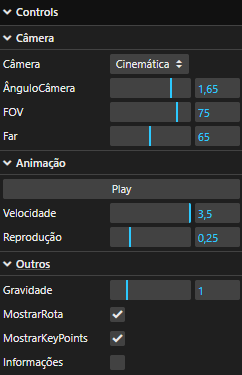
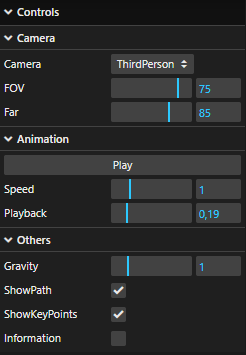
Translated README.md and updated GUI screenshot

diff --git a/README.md b/README.md
@@ -1,110 +1,103 @@
-# Relatório Trabalho 1 - MATA65 (Computação Gráfica)
-## Introdução
-Neste repositório se localiza o produto final do trabalho que marca a conclusão da unidade 1 da disciplina MATA65 - Computação Gráfica na UFBA no semestre 2024.2, ministrada pelo professor [Antônio Apolinário](https://computacao.ufba.br/pt-br/antonio-lopes-apolinario-junior), responsável pelas especificações do trabalho. **Para executar a aplicação, é importante ter a pasta [Assets](https://github.com/LucasTBorges/Assets) na raíz do web server que está o executando.** A navegação da aplicação se dá a partir do index.html, localizado na pasta CodigoBase.
-Nós fomos orientados a desenvolver uma aplicação utilizando a biblioteca [Three.js](https://threejs.org/) que nos permitisse visualizar um cenário sob dois pontos de vista simultaneamente: uma câmera estática e uma câmera que acompanha um agente representado por um modelo 3D percorrendo um circuito em loop pela cena.
-Dentre os requisitos impostos, se encontravam:
- - Na visualização que acompanha o avatar pelo cenário, deve ser possível alternar entre as perspectivas de Primeira Pessoa, Terceira Pessoa e "Drone Normal".
- - O movimento da câmera deve ser suave e realista.
- - Deve ser possível pausar e reproduzir a execução da animação.
-## Modelos 3D
-<img src="./imgs/bookModel.png" alt="Modelo 3D do cenário" width="500"/>
-<img src="./imgs/passaro.png" alt="Modelo 3D do avatar" width="500"/>
+# Project Report 1 - MATA65 (Computer Graphics)
+## Introduction
+This repository contains the final project for Unit 1 of the MATA65 - Computer Graphics course at UFBA (2024.2 semester), taught by Professor [Antônio Apolinário](https://computacao.ufba.br/pt-br/antonio-lopes-apolinario-junior), who provided the project specifications.
 
-As especificações do trabalho, localizadas neste mesmo repositório, dão liberdade criativa para a escolha dos modelos do avatar e do cenário. Dessa forma, escolhi, para o cenário, o modelo de um [feudo sobre um livro de fantasia medieval](https://sketchfab.com/3d-models/medieval-fantasy-book-06d5a80a04fc4c5ab552759e9a97d91a), disponível para download no SketchFab sob a publicação do usuário [Pixel](https://sketchfab.com/stefan.lengyel1). Para o avatar acompanhado pela câmera, optei pelo modelo de um [pássaro](https://sketchfab.com/3d-models/low-poly-bird-942ffdab96bb48a7bb1612b461386310), também disponível para download no SketchFab, sob a publicação do usuário [AlexFerrart3D](https://sketchfab.com/alexferrart3D).
+The goal was to develop an application using the [Three.js](https://threejs.org/) library to visualize a scene from two simultaneous perspectives: a static camera and a camera that follows an agent (a 3D model) traveling along a looped path.
 
-## Movimentação da Câmera
+Key requirements included:
+ - The ability to switch between First Person, Third Person, and "Normal Drone" perspectives for the avatar view.
+ - Smooth and realistic camera movement.
+ - Controls to pause and play the animation.
 
-**Translação:** A fim de traçar uma trajetória flúida para a câmera, decidi deslocá-la ao longo de uma [spline de Catmull-Rom](https://www.cs.cmu.edu/~fp/courses/graphics/asst5/catmullRom.pdf). Esta curva paramétrica, gerada a partir de uma lista de pontos no espaço, é uma spline interpolante, o que significa que os pontos definidos por mim farão parte da curva gerada, me dando mais controle sobre o circuito percorrido pela câmera. Por fim, já [existe uma implementação desta curva no Three.js](https://threejs.org/docs/#api/en/extras/curves/CatmullRomCurve3), o que foi mais um motivo para escolher essa abordagem no meu projeto.
+## 3D Models
+<img src="./imgs/bookModel.png" alt="3D Environment Model" width="500"/>
+<img src="./imgs/passaro.png" alt="3D Avatar Model" width="500"/>
 
-**Rotação:** Outra vantagem da utilização da spline de Catmull-Rom é o fato de que ela possui continuidade de classe $C^1$. Utilizar a tangente da curva para determinar a direção para a qual a câmera deve apontar em qualquer ponto me pareceu a escolha natural nessa situação.
+The project specifications allowed creative freedom for choosing the models. For the environment, I chose a [Medieval Fantasy Book](https://sketchfab.com/3d-models/medieval-fantasy-book-06d5a80a04fc4c5ab552759e9a97d91a) by user [Pixel](https://sketchfab.com/stefan.lengyel1) on Sketchfab. For the avatar, I opted for a [Low Poly Bird](https://sketchfab.com/3d-models/low-poly-bird-942ffdab96bb48a7bb1612b461386310) by user [AlexFerrart3D](https://sketchfab.com/alexferrart3D).
 
-## Visualizações Simultâneas
+## Camera Movement
 
-<img src="./imgs/moinho.png" alt="Frame capturado durante a execução da animação" width="500"/>
+**Translation:** To create a fluid trajectory, the camera moves along a [Catmull-Rom spline](https://www.cs.cmu.edu/~fp/courses/graphics/asst5/catmullRom.pdf). This parametric curve is interpolating, meaning the defined control points are part of the generated path, allowing for precise circuit design. I utilized the [Three.js implementation](https://threejs.org/docs/#api/en/extras/curves/CatmullRomCurve3) of this curve.
 
-Cada frame da animação possui duas visualizações simultâneas da cena. A primeira, localizada na esquerda, é a visualização de uma [câmera que faz uso de projeção perspectiva](https://threejs.org/docs/#api/en/cameras/PerspectiveCamera) e acompanha o avatar percorrendo o cenário. A segunda, localizada na direita, é a visualização de uma [câmera ortográfica](https://threejs.org/docs/#api/en/cameras/OrthographicCamera) (faz uso de projeção paralela) que não sofre nenhuma tranformação durante a execução da aplicação.
-Na visualização da câmera ortográfica é possível visualizar alguns elementos não presentes na primeira visualização:
- - Um [Camera Helper](https://threejs.org/docs/#api/en/helpers/CameraHelper) referente à primeira visualização: segmentos de linha que auxiliam a visualizar o frustrum da câmera ativa.
- - Uma curva vermelha que descreve a trajetória da câmera na animação, cuja visualização pode ser desligada através da GUI.
- - Esferas ciano representando os pontos a partir dos quais a curva foi gerada. Como todas as esferas compartilham da mesma geometria e material, foi possível fazer uso da [InstancedMesh](https://threejs.org/docs/#api/en/objects/InstancedMesh) do Three.js ao invés de criar as malhas das esferas uma a uma e passar, de forma redundante, as mesmas informações de geometria e material toda vez. Essa escolha ainda otimiza a performance da aplicação pois diminui o número de draw calls realizadas. A visualização das esferas pode ser desligada através da GUI.
+**Rotation:** A benefit of the Catmull-Rom spline is its $C^1$ continuity. I used the curve's tangent to determine the camera's direction at any given point, ensuring natural orientation.
 
-## Diferentes Câmeras
+## Simultaneous Views
 
- A especificação do trabalho indica que deve ser possível alternar entre as câmeras em Primeira Pessoa, Terceira Pessoa e "Drone Normal" através da GUI. Para além das três câmeras obrigatórias, minha aplicação também inclui a opção "Cinematográfica".
+<img src="./imgs/moinho.png" alt="Frame captured during animation" width="500"/>
+
+Each frame features two simultaneous views. On the left is a [Perspective Camera](https://threejs.org/docs/#api/en/cameras/PerspectiveCamera) that follows the avatar. On the right is an [Orthographic Camera](https://threejs.org/docs/#api/en/cameras/OrthographicCamera) (parallel projection) that remains static.
+
+The orthographic view displays elements not visible in the first view:
+ - A [Camera Helper](https://threejs.org/docs/#api/en/helpers/CameraHelper) for the active perspective camera.
+ - A red curve showing the camera's trajectory (can be toggled via GUI).
+ - Cyan spheres representing the control points. Using [InstancedMesh](https://threejs.org/docs/#api/en/objects/InstancedMesh), I optimized performance by reducing draw calls, as all spheres share the same geometry and material.
+
+## Camera Modes
+
+The application allows switching between First Person, Third Person, and Normal Drone views. I also included a "Cinematic" option.
 
 ---
  
- ### Primeira pessoa:
- 
- <img src="./imgs/firstPerson.png" alt="Visão em primeira pessoa" width="350"/>
- 
-  Câmera posicionada de forma a simular a experiência do pássaro, com a visão parcialmente obstruída pelo bico.
+ ### First Person:
+ <img src="./imgs/firstPerson.png" alt="First Person View" width="350"/>
+ Positioned to simulate the bird's experience, with the view partially obstructed by its beak.
 
 ---
   
- ### Terceira Pessoa:
- 
-<img src="./imgs/thirdPerson.png" alt="Visão em terceira pessoa" width="350"/>
-
-Câmera posicionada atrás e um pouco acima do pássaro.
+ ### Third Person:
+ <img src="./imgs/thirdPerson.png" alt="Third Person View" width="350"/>
+ Positioned behind and slightly above the bird.
 
 ---
 
-### Drone Normal:
-
-<img src="./imgs/droneNormal.png" alt="Visão de drone normal" width="350"/>
-
-Similar à visão em primeira pessoa, mas a visão não é obstruída por nenhuma parte do modelo do pássaro.
+### Normal Drone:
+ <img src="./imgs/droneNormal.png" alt="Normal Drone View" width="350"/>
+ Similar to first person, but with an unobstructed view.
 
 ---
 
-### Cinematográfica:
-
-<img src="./imgs/cinematica.png" alt="Visão cinematográfica" width="350"/>
-
-Posicionada a uma distância fixa do avatar, esta visão se diferencia das outras pois compartilha apenas as transformações de translação com o pássaro. Por não sofrer as mesmas transformações de rotação das outras câmeras, em alguns momentos veremos o pássaro de frente, em outros de lado e em outros de costas, a depender da direção para a qual o modelo está voltado. Entretanto, através da GUI, é possível controlar manualmente a rotação da câmera cinematográfica ao redor do pássaro. A intenção da inclusão dessa visão é facilitar a visualização das transformações de rotação aplicadas sobre o avatar durante o trajeto.
+### Cinematic:
+ <img src="./imgs/cinematica.png" alt="Cinematic View" width="350"/>
+ This view stays at a fixed distance from the avatar but only shares translation transformations. This allows the viewer to see the bird from different angles as it rotates along the path. The rotation of this camera around the bird can be controlled manually via the GUI.
 
 ---
 
-Para posicionar as câmeras com referência ao pássaro, utilizei [grupos](https://threejs.org/docs/?q=group#api/en/objects/Group) do Three.js para realizar o posicionamento no sistema de coordenadas local ao invés de no espaço do mundo. 
-Criei um grupo para aplicar as tranformações de translação da animação e dentro dele criei um grupo para aplicar as transformações de rotação. No grupo de rotação incluí o modelo do pássaro e as câmeras de Primeira Pessoa, Terceira Pessoa e Drone Normal. No grupo pai, o grupo de translação, incluí a câmera cinematográfica. O resultado é que todas as câmeras e o modelo sofrem as transformações de translação acompanhando a spline ao longo da animação, mas as transformações de rotação (acompanhando a tangente da spline) não atingem a câmera cinematográfica, como pretendido.
+To position these cameras relative to the bird, I used Three.js [Groups](https://threejs.org/docs/?q=group#api/en/objects/Group). A "Translation Group" handles the spline movement, and a nested "Rotation Group" handles the orientation. The bird and the first three cameras are inside the rotation group, while the Cinematic camera is in the parent translation group, isolating it from the bird's automatic rotations.
 
-## Circuito
+## The Circuit
 
-A rota que tracei para o passáro foi formada pela interpolação de 12 pontos no cenário que determinei para que ela seguisse o seguinte percurso:
+The flight path is interpolated from 12 points, following this route:
+ 1. Over the waterfall.
+ 2. Under the bridge near the fisherman.
+ 3. Over the deer.
+ 4. Around the windmill.
+ 5. Between the castle towers, followed by a "dive" through the building's doors.
+ 6. Right turn at the gray-roofed house.
+ 7. Over the sheep.
+ 8. Return to the starting point.
 
- 1. O pássaro começa passando por cima da cachoeira;
- 2. Em seguida, passa por debaixo da ponte com o pescador;
- 3. Sobrevoa os cervos;
- 4. Contorna o moinho de vento;
- 5. Passa por entre as torres mais altas do castelo e dá um "mergulho", saindo pelas portas da construção;
- 6. Vira a direita na casa com telhado cinza;
- 7. Sobrevoa as ovelhas;
- 8. Volta ao ponto inicial.
+## Free Camera Mode
+To assist in path creation, I added a "Free Exploration" mode using [Fly Controls](https://threejs.org/docs/#examples/en/controls/FlyControls). This allows free navigation to find coordinates for the spline points, which can be read from the "Information" debug panel.
 
-## Modo Câmera Livre
+## GUI (Graphical Interface)
 
-Para facilitar a montagem da curva, adicionei um modo de câmera livre à aplicação, acessível pela aba "Câmera Livre". Nela, faço uso dos [Fly Controls](https://threejs.org/docs/#examples/en/controls/FlyControls) do Three.js. Nesse modo, é possível navegar livremente pelo cenário. Assim, para montar o caminho, bastou navegar pela câmera livre até o local que eu achava apropriado para a adição de um ponto à minha lista de pontos e registrar a coordenada no espaço do mundo, que pode ser encontrada na janela de informações, habilitada através da interface gráfica.
+<img src="./imgs/gui.png" alt="lil-gui interface" width="250"/>
 
-## GUI (Interface Gráfica)
+Built with [lil-gui](https://lil-gui.georgealways.com/), the interface manages the following settings:
 
-<img src="./imgs/gui.png" alt="Interface gráfica gerada através da biblioteca lil-gui" width="250"/>
+**Camera:**
+ - **camera**: Dropdown to select the active perspective view (FirstPerson, ThirdPerson, NormalDrone, or Cinematic).
+ - **CameraAngle**: Controls the rotation of the Cinematic camera around the bird.
+ - **FOV**: Adjusts the Field of View.
+ - **Far**: Adjusts the camera's far clipping plane.
 
-A interface para os controles da aplicação foi gerada com a biblioteca [lil-gui](https://lil-gui.georgealways.com/). Nem todos os controles estão disponíveis no modo de câmera livre, pois apenas alguns controles fazem sentido nesse modo.
+**Animation:**
+ - **AutoPlay (Play/Pause)**: Resumes or pauses the flight.
+ - **Speed**: Adjusts the animation playback speed.
+ - **t (Playback)**: Manually adjust or view the current position on the spline.
 
-**Câmera:**
- - *Câmera*: Menu dropdown para selecionar a câmera ativa da visualização de perspectiva (PrimeiraPessoa, TerceiraPessoa, DroneNormal ou Cinematográfica).
- - *ÂnguloCâmera*: Visível apenas quando a câmera cinematográfica está selecionada, controla a rotação da câmera cinematográfica ao redor do pássaro.
- - *FOV*: Controla o campo de visão da câmera da visualização de perspectiva.
- - *Far*: Controla a distância do plano *far* de recorte da câmera (plano que limita o quão longe a câmera enxerga).
-
-**Animação:**
- - *Botão Play/Pause*: Retoma/Pausa a reprodução da animação.
- - *Velocidade*: Controla a velocidade da reprodução da animação.
- - *Reprodução*: Controla a posição da câmera na spline. Automaticamente atualizado durante a animação, mas pode ter seu valor modificado manualmente pelo usuário.
-
-**Outros:**
- - *Gravidade*: Controla a influência da orientação do pássaro em sua velocidade. Em 0, a velocidade é constante durante todo percurso, para qualquer outro valor, o pássaro fica mais rápido quando inclinado para baixo (quanto menor a coordenada y do vetor de direção, mais rápido). Essa funcionalidade torna a simulação um pouco mais realista e a diferença é mais perceptível no momento da animação no qual o pássaro "dá um mergulho" dentro do castelo.
- - *MostrarRota*: Checkbox que habilita/desabilita a visualização da curva que descreve a trajetória do grupo de translação.
- - *MostrarKeypoints*: Checkbox que habilita/desabilita a visualização das esferas que representam os pontos utilizados para gerar a spline.
- - *Informações*: Checkbox que habilita/desabilita a visualização da janela de debug, com algumas informações úteis durante o desenvolvimento sobre o estado atual da simulação.
+**Others:**
+ - **Gravity**: Influences speed based on orientation; the bird accelerates when diving.
+ - **ShowPath**: Toggles visibility of the trajectory curve.
+ - **ShowKeyPoints**: Toggles visibility of the control point spheres.
+ - **Information**: Toggles the debug information panel.
